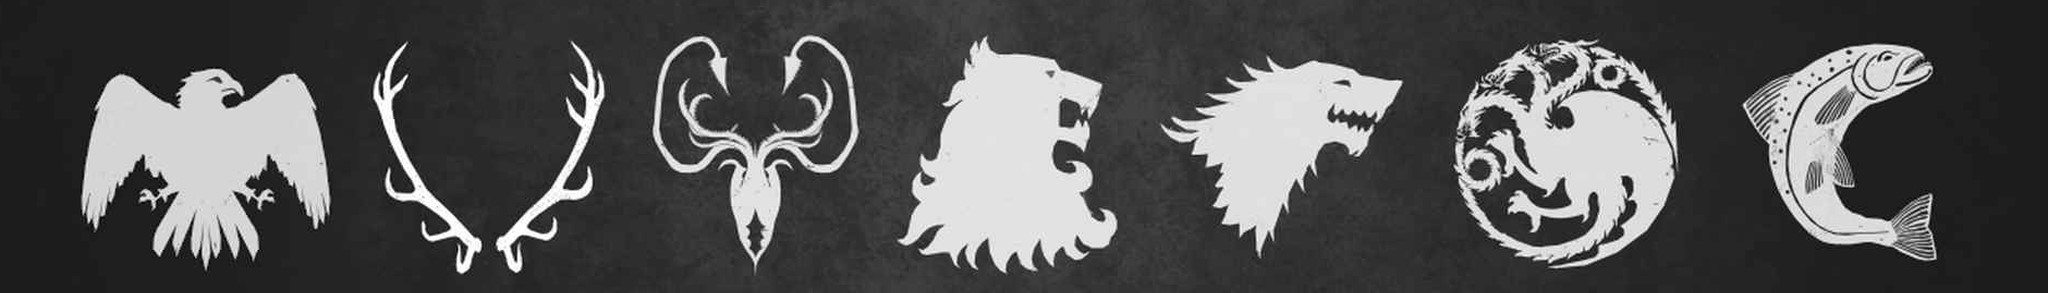
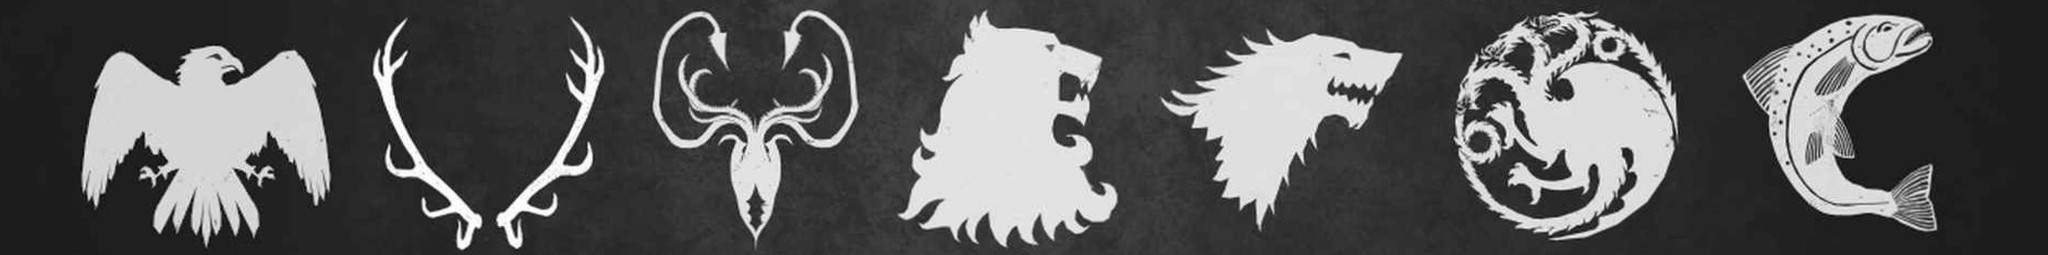
asd
asd

diff --git a/GOT-game/styles.css b/GOT-game/styles.css
@@ -1,5 +1,5 @@
 body {
-    background-color: black;
+    background-color: #dbdbdb;
 }
 
 #header {
@@ -7,11 +7,11 @@ body {
 }
 
 #footer {
-    height: 100px;
-    background-image: url('images/faces-stolb.jpg');
+    
+    background-image: url('images/symbols.jpg');
 }
 
-#header h1 {
+/*#header h1 {
     color: #111111;
     font-weight: bold;
     -webkit-text-stroke-width: 1px;
@@ -21,7 +21,7 @@ body {
  #header p {
      color: #111111;
     font-weight: bold;
- }
+ }*/
 
 #addNewHouseButton {
    margin-left: 10px;

diff --git a/GOT-game/index.html b/GOT-game/index.html
@@ -13,8 +13,10 @@
 <!--Header-ot......................................................-->
     <div class="jumbotron text-center" id="header">
         <button id="addNewHouseButton">Add New House</button>
-        <h1>Game of Thrones</h1>
-        <p>Houses at War!</p>
+        <br>
+        <br>
+        <br>
+        
     </div>
 <!--sredisniot del...................................................-->
     <div class="container" id="main">
